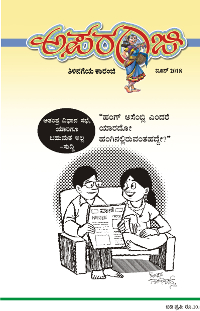
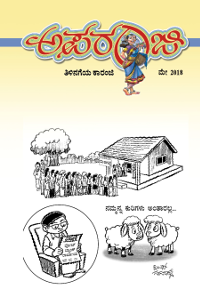
June issue updated

diff --git a/index.php b/index.php
@@ -91,7 +91,7 @@ session_start();
 			echo "		  </div>
 				</div>";
 				
-			echo "<div class=\"cover\"><a href=\"Volumes/".$currentyear."_".$currentmonth.".pdf#page=1\" target=\"_blank\"><img src=\"php/images/cover.png\" alt=\"".$month[$currentmonth-1]."\" title=\"".$month[$currentmonth-1]." ಸಂಚಿಕೆ\"/></a></div>";
+			echo "<div class=\"cover\"><a href=\"Volumes/".$currentyear."_".$currentmonth.".pdf#page=1\" target=\"_blank\"><img src=\"php/images/cover1.png\" alt=\"".$month[$currentmonth-1]."\" title=\"".$month[$currentmonth-1]." ಸಂಚಿಕೆ\"/></a></div>";
 		?>
 			
 		
